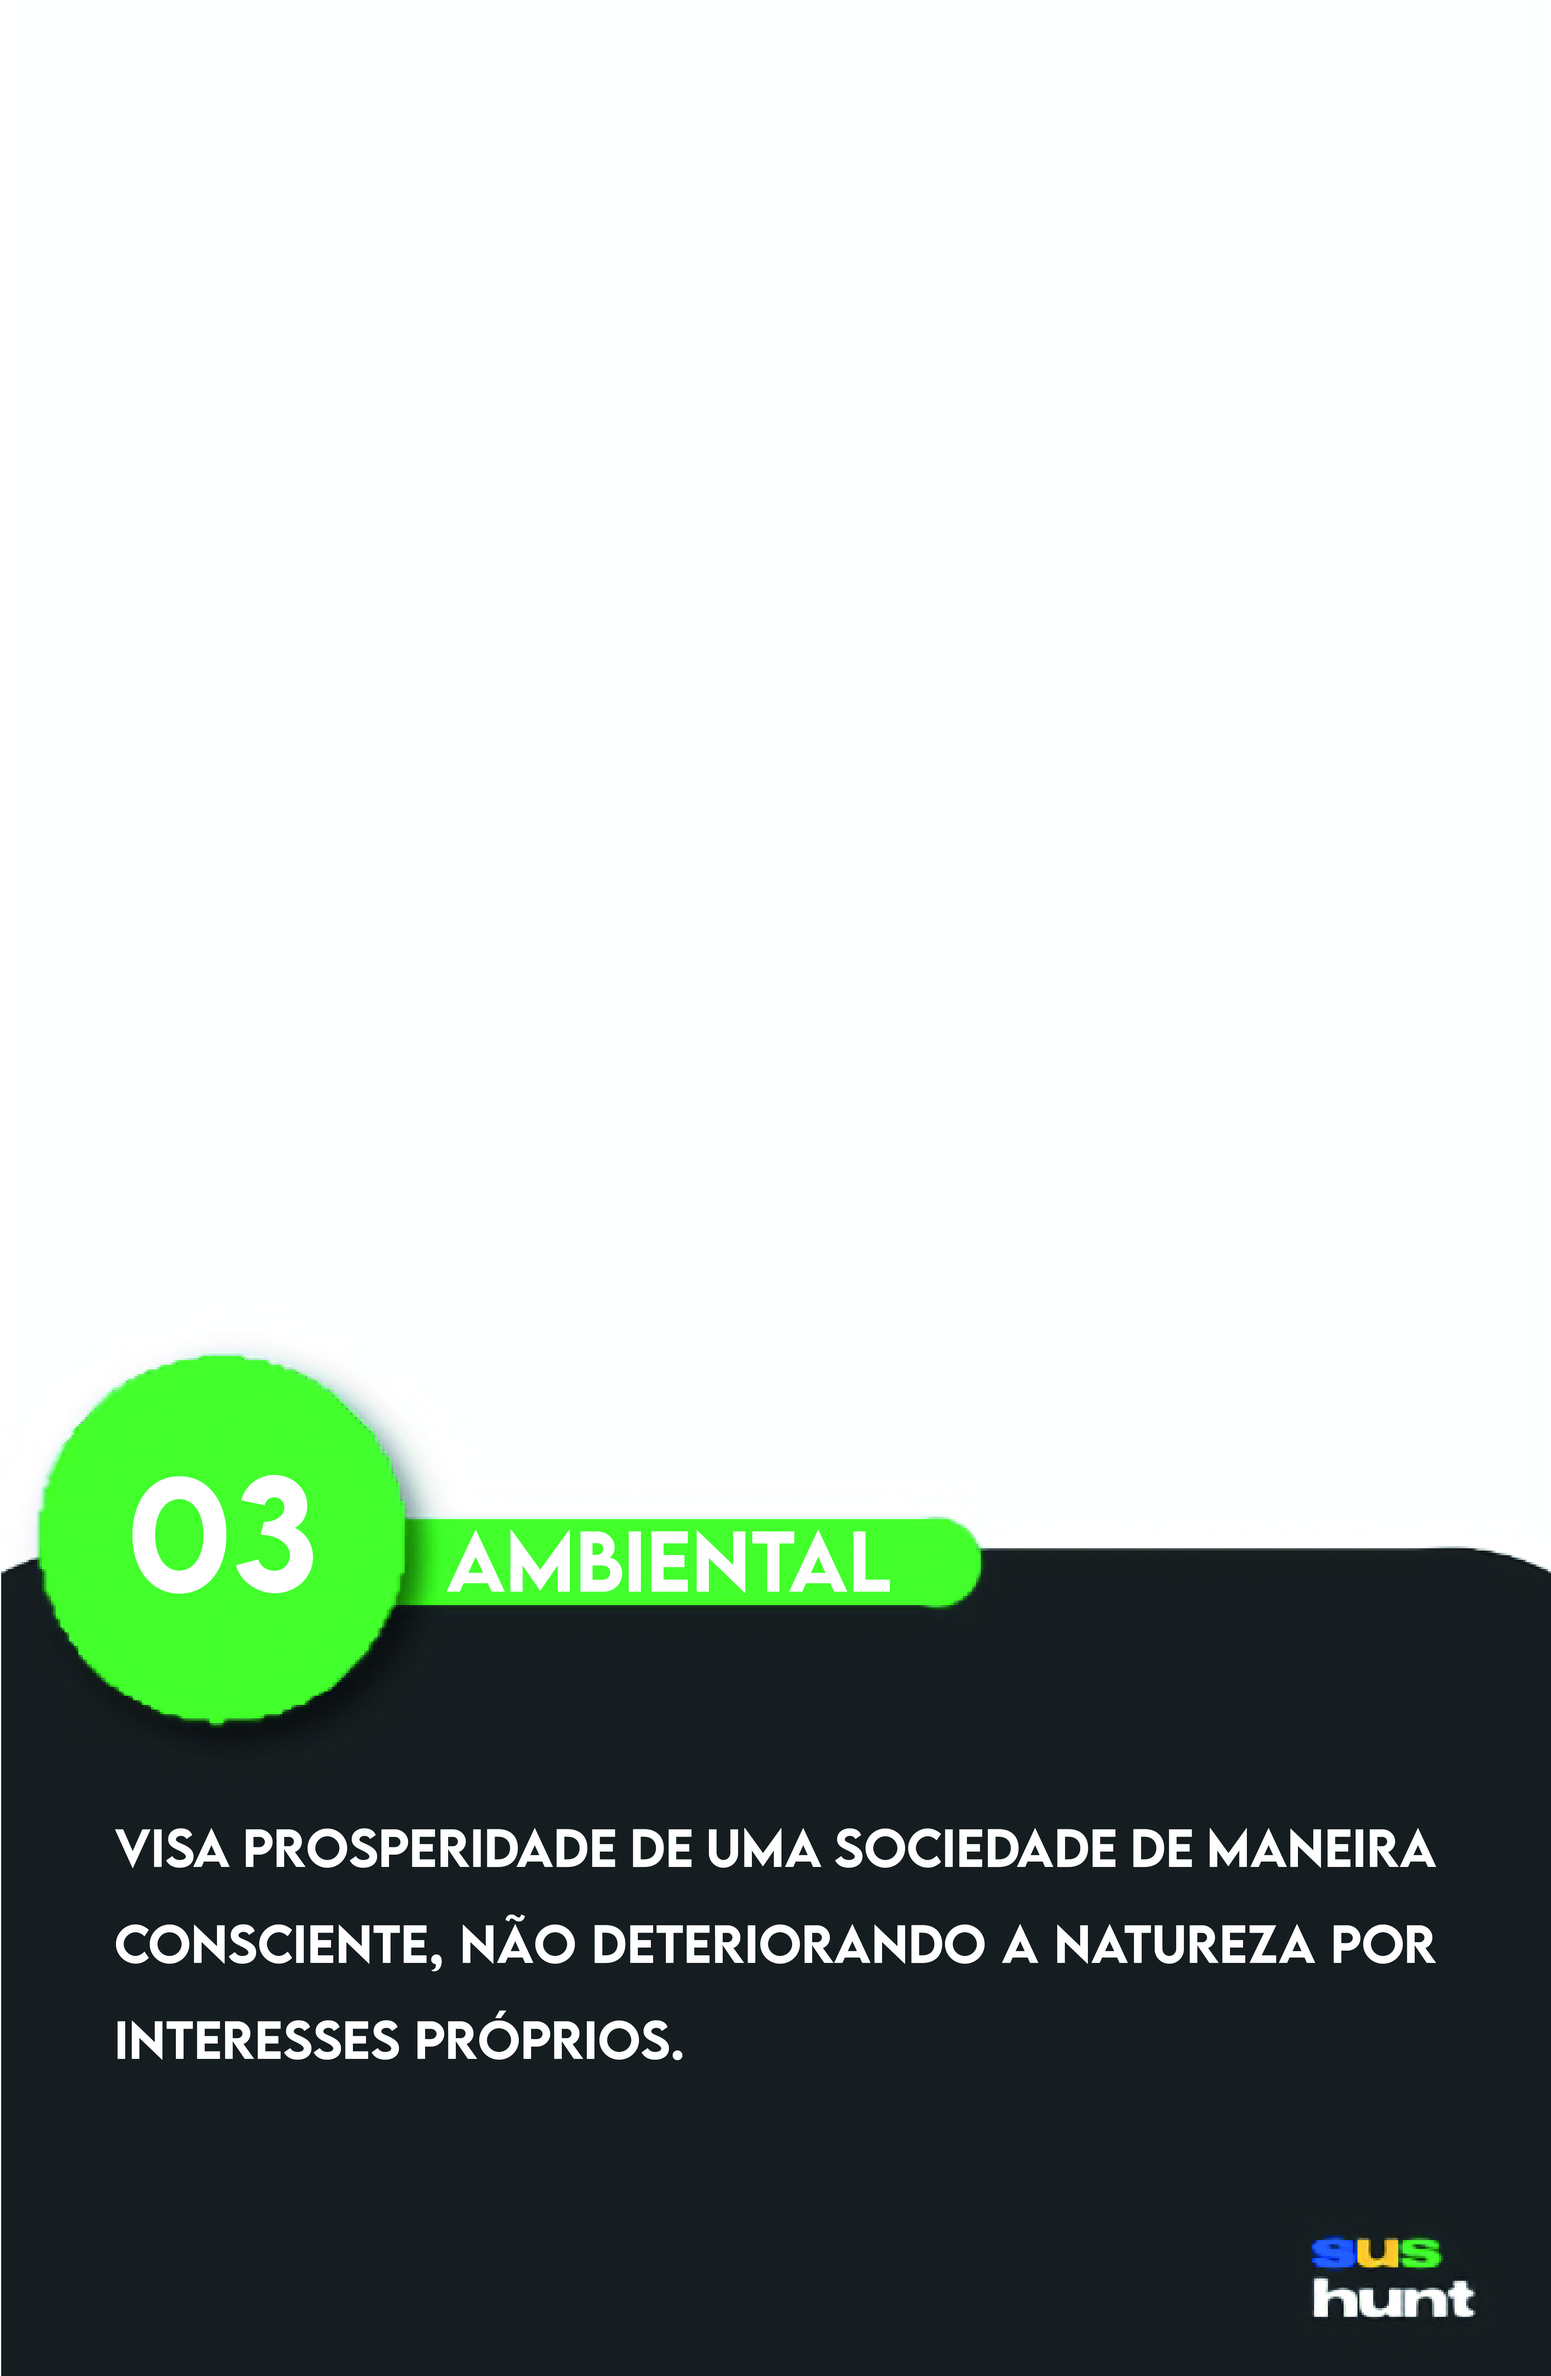
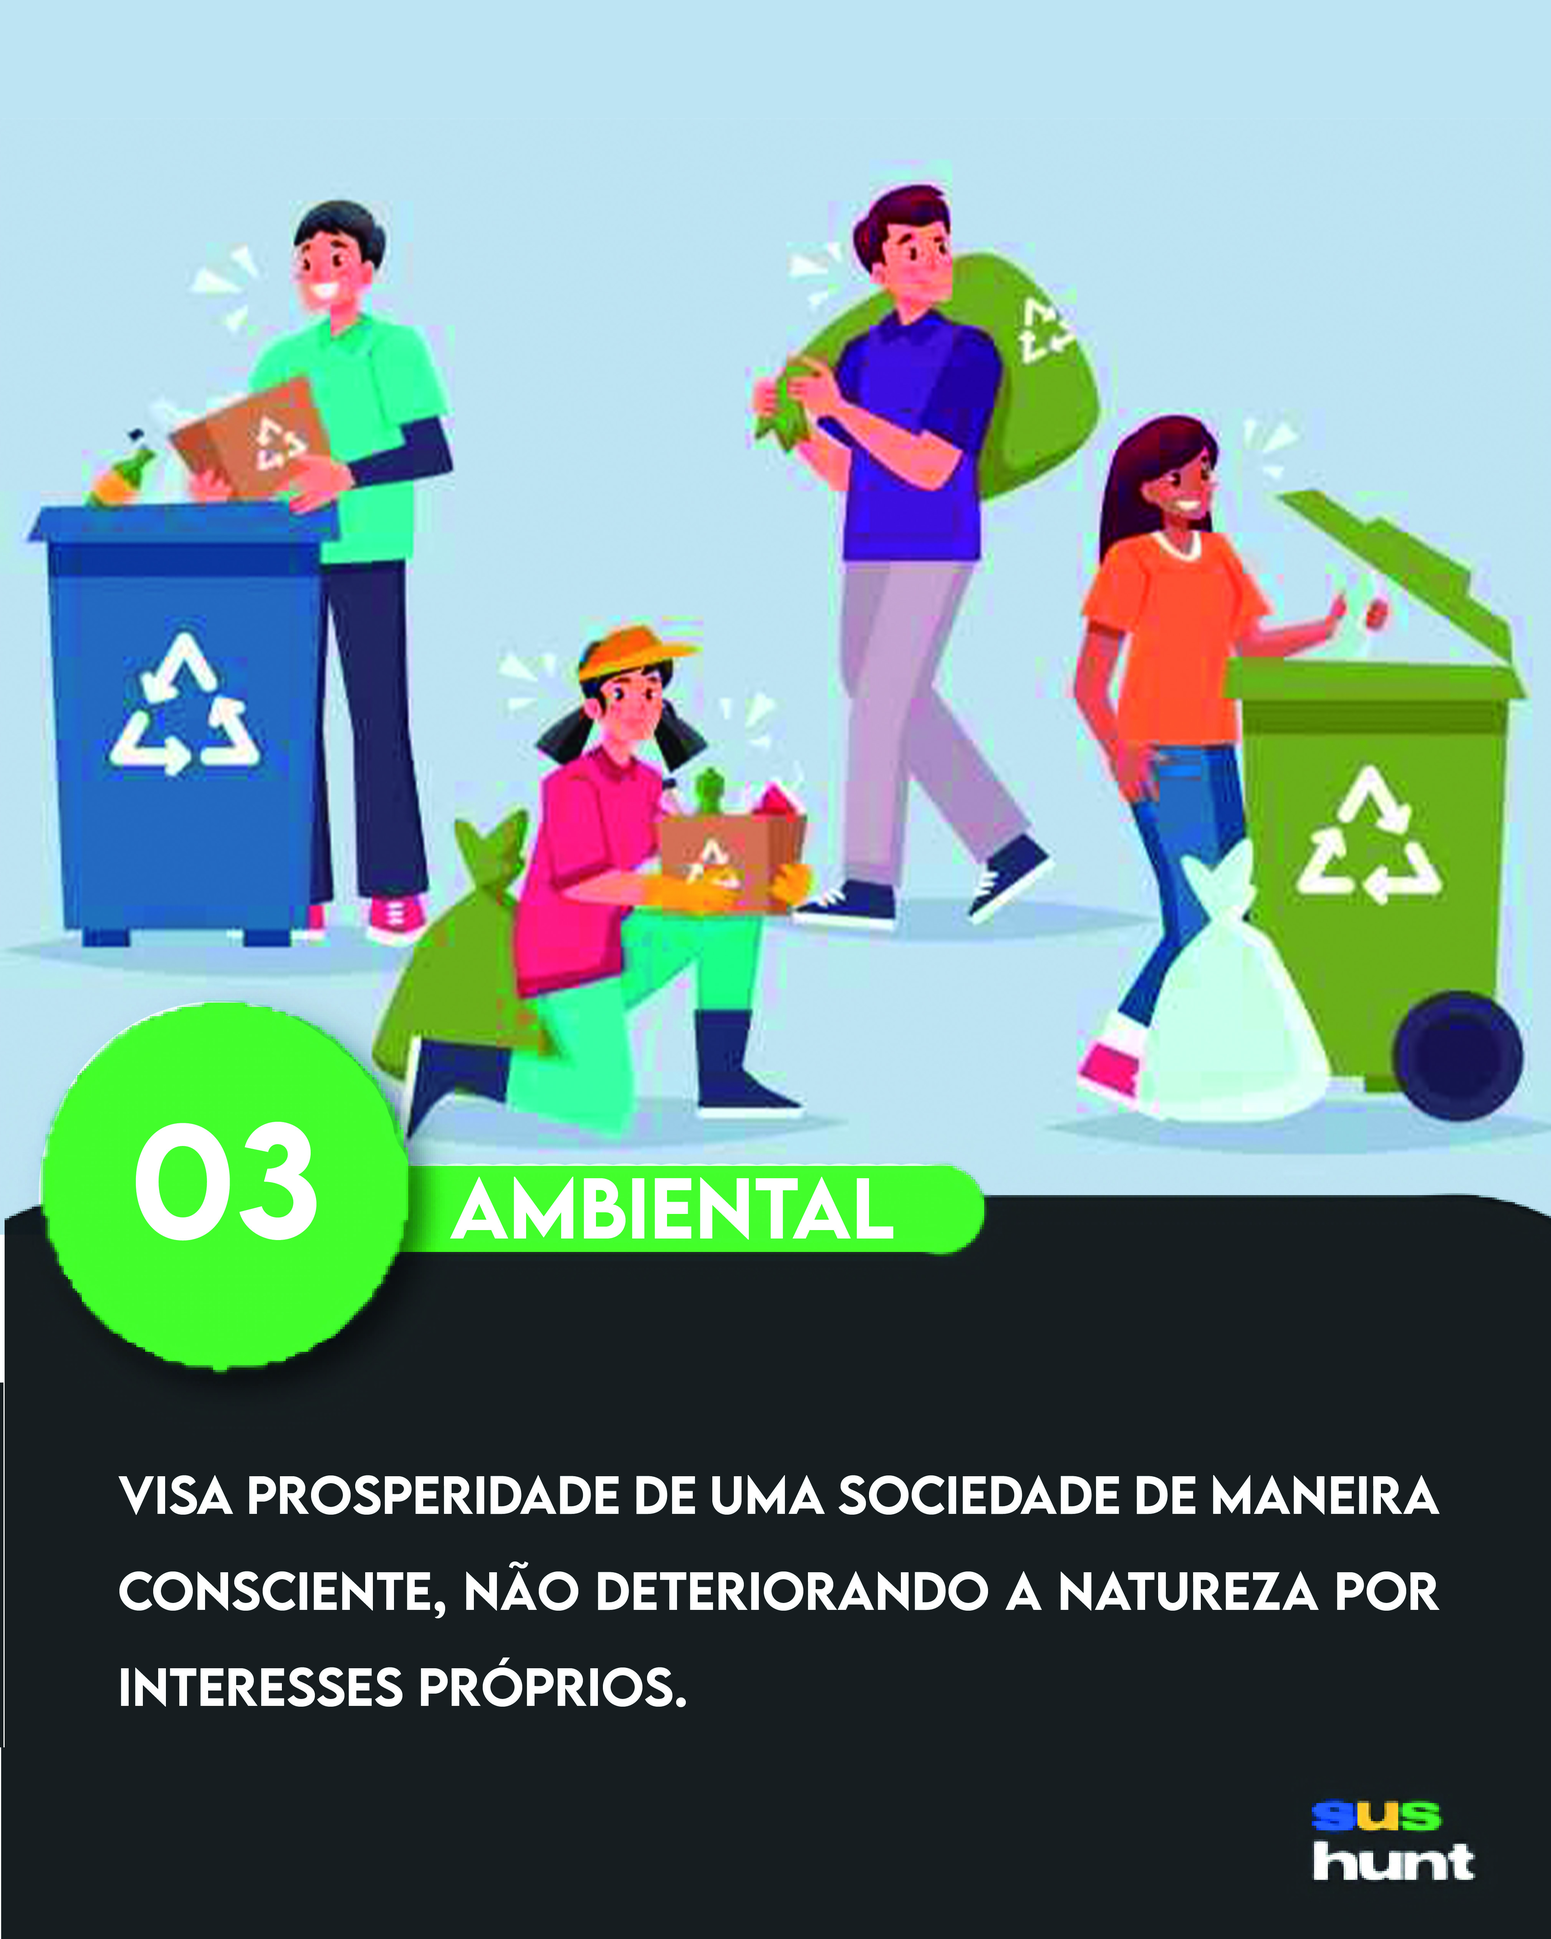
Ambiental update

diff --git a/VHWDZIOVG/index.html b/VHWDZIOVG/index.html
@@ -4,22 +4,65 @@
     <meta charset="UTF-8">
     <meta name="viewport" content="widht=device-widht, initial-scale=1.0">
     <title>SusHunt</title>
-    <link rel="icon" href="/icon.png">
+    <link rel="icon" href="../icon.png">
     <link rel="stylesheet" href="../style.css">
   </head>
   <body>
     <header>
-      <img src="/Images/page_banner.png" class="page_banner">
+      <img src="../Images/page_banner.png" class="page_banner">
     </header>
     <article>
       <br>
-      <img src="/Images/ambiental-01.jpg" class="prizecards">
-      <div>
+      <img src="../Images/ambiental-01.jpg" class="prizecards">
+      
+      
 
-      </div>
       <div>
-        <h2 class="title"> Ambiental </h2>
+       <h2 class="title" style="color: #7DDA58;"> Sustentabilidade Ambiental </h2>
+       <a href="../Images/ambiental-01.jpg" download>
+          <button class="save_button" style="background-color: #7DDA58;"><b>Salvar Carta!</b></button>
+       </a>
+       <p>
+          Parabens por chegar até aqui! Você acaba de concluir um terço da caçada e
+          está mais perto da vitória, mas ainda tem caminho para ser percorrido.
+          Aqui, além de darmos uma cartinha olecionável, a qual você precisa pra
+          concluir o jogo, também vamos te dar uma das três partes da dica que
+          te levará para linha de chegada.
+        </p>
+        
+        <p>
+          Mas antes disso, aqui vai uma curiosidade sobre a <b style="color: #7DDA58;">sustentabilidade ambiental:</b>
+        </p>
+        <p>
+          Ela não é apenas sobre economizar água e evitar queimadas, metodologias que visam
+          a economia de recursos e o uso prático deles, como <b style="color: #7DDA58;">a moda sustentável,
+          a construção criativa e o designe urbano</b>, são ótimos exemplos de como contribuir
+          para a saúde do meio ambiente.
+        </p>
+        <p>
+          Agora que você já entende um pouco sobre a sustentabilidade ambiental, chegou a hora
+          de continuar o nosso jogo. o trecho a seguir será a <b>primeira parte</b> da dica que
+          vai te levar a vitória. <b style="color: #7DDA58;">“</b><i>Aqui nos vamos colocar a
+          primeira parte da dica final que vai levar para onde vamos distribuir os prêmios</i>
+          <b style="color: #7DDA58;">”</b>. Mas lembre-se você ainda precisa encontrar as duas
+          cartas restantes que representam os outros dois pilares da sustentabilidade, são elas
+          que te darão as outras partes da dica que leva a linha de chegada.
+        </p>
+        <p>
+          Para você que continua lendo, <b style="color: #7DDA58;">vamos te recompensar</b>
+          com um pouco mais de conhecimento. Aqui vai uma sugestão pratica de como contribuir
+          com o meio ambiente de uma forma que não exige muito de você: A doação de produtos
+          usados tem impacto ambiental positivo porque minimiza o lixo descartado em aterros
+          sanitários. Você pode dar itens indesejados, como roupas e brinquedos, em vez de
+          jogá-los fora.
+        </p>
       </div>
     </article>
+    <footer>
+      <p style="text-align: center;">
+        Obrigado por ler até aqui!
+      </p>
+      <a href="../index.html" style="color: #7DDA58;"><p style="text-align: center;"><b>VOLTAR A PÁGINA PRINCIPAL</p></b></a>
+    </footer>
   </body>
 </html>

diff --git a/style.css b/style.css
@@ -76,7 +76,24 @@ td {
 }
 
 .prizecards {
+    border-radius: 10%;
+    float: left;
+    margin-right: 5%;
+    margin-top: 5vw;
     width: 30vw;
+}
+
+.save_button {
+    border-radius: 10vw;
+    color: aliceblue;
+    float: left;
+    margin-top: 30vw;
+    margin-inline-start: -34vw;
+    margin-inline-end: 5%;
+    margin-bottom: 0.6%;
+    padding: 1.5%;
+    padding-left: 7vw;
+    padding-right: 7vw;
 }
 
 .scan_qrcode {
